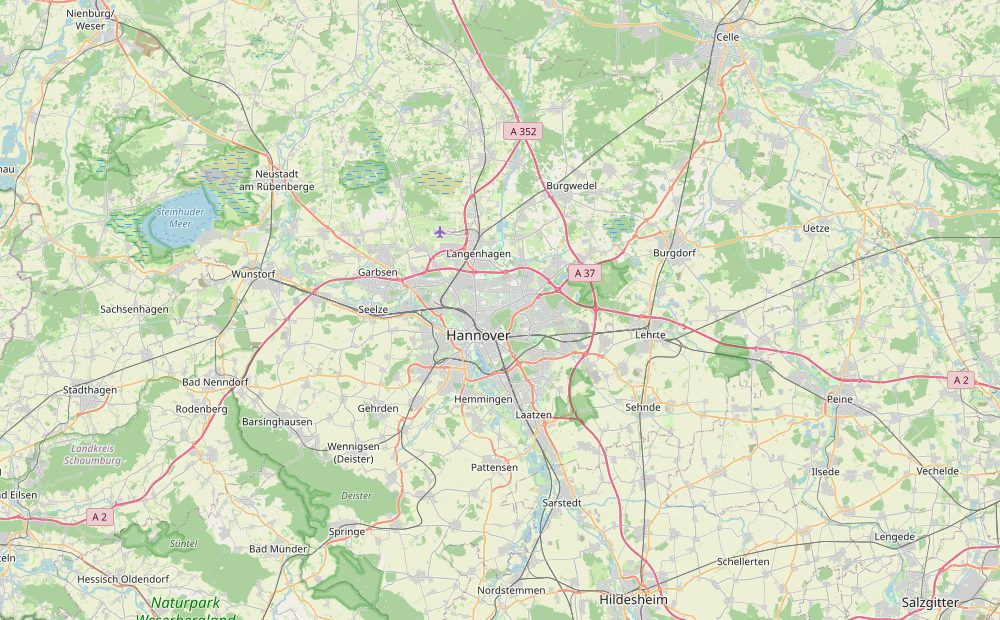
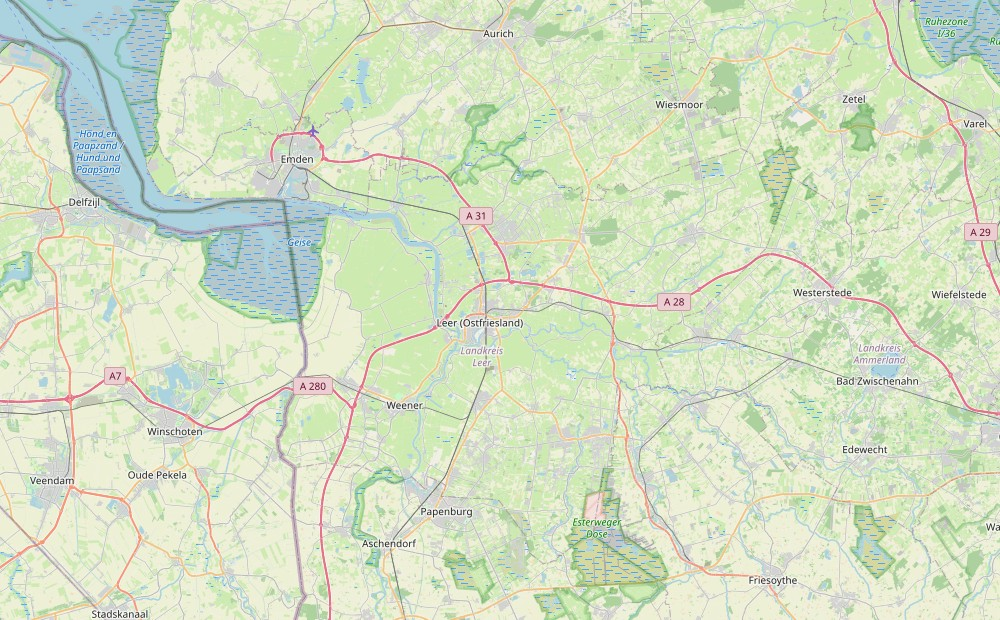
Arbeitsort Leer statt Hannover: Funnel, Karte, Creatives, Copies (#1)
planGIS sucht für den Standort Leer (Friedhofstr. 45a, 26789), nicht für
die Niederlassung Hannover. Badge, Titel, Benefit-Zeile und Karte im Funnel,
die drei Creative-Konfigs, beide Copies und creatives.md auf Leer umgestellt.
Die 4 fertig gerenderten Creatives liegen in creatives/ (gleiche Layouts,
nur Ortsangaben sowie Karte/Ring/Pfeil in Creative 1 neu).

Claude-Session: https://claude.ai/code/session_01V9qSHtwoWZKok4RdhM7UEt

diff --git a/index.html b/index.html
@@ -34,7 +34,7 @@
 <meta name="theme-color" content="#95C11F">
[2 lines of base64/hex data omitted]
-<title>Landschaftsplaner (m/w/d) bei planGIS GmbH in Hannover</title>
+<title>Landschaftsplaner (m/w/d) bei planGIS GmbH in Leer</title>
 <script>!function(f,b,e,v,n,t,s){if(f.fbq)return;n=f.fbq=function(){n.callMethod?n.callMethod.apply(n,arguments):n.queue.push(arguments)};if(!f._fbq)f._fbq=n;n.push=n;n.loaded=!0;n.version='2.0';n.queue=[];t=b.createElement(e);t.async=!0;t.src=v;s=b.getElementsByTagName(e)[0];s.parentNode.insertBefore(t,s)}(window,document,'script','https://connect.facebook.net/en_US/fbevents.js');fbq('init','1986121842345009');fbq('track','PageView');</script><noscript><img height="1" width="1" style="display:none" src="https://www.facebook.com/tr?id=1986121842345009&ev=PageView&noscript=1"/></noscript>
 <link rel="preconnect" href="https://fonts.googleapis.com">
 <link rel="preconnect" href="https://fonts.gstatic.com" crossorigin>
@@ -296,7 +296,7 @@ footer{background:#fff;border-top:1px solid var(--line);padding:30px 16px 34px;t
 
 <section class="hero has-photo" style="--hero-photo:url('img/hero.jpg')">
   <div class="hero-in">
-    <span class="badge" data-animate>📍 Hannover &amp; Umgebung</span>
+    <span class="badge" data-animate>📍 Leer &amp; Umgebung</span>
     <h1 data-animate style="--d:.06s">Landschaftsplaner <span class="mwd">(m/w/d)</span><span class="h1-sub">bei planGIS GmbH</span></h1>
 
     <p class="hero-benefit" data-animate style="--d:.12s">Home-Office möglich</p>
@@ -314,7 +314,7 @@ footer{background:#fff;border-top:1px solid var(--line);padding:30px 16px 34px;t
   <div class="sec-in">
     <h2 data-animate>Das bietet dir planGIS GmbH</h2>
     <ul class="benefit-grid" data-animate style="--d:.08s">
-      <li>Home-Office möglich – feste Bürotage in Hannover sind vorgesehen</li>
+      <li>Home-Office möglich – feste Bürotage in Leer sind vorgesehen</li>
       <li>Flexible Arbeitszeiten</li>
       <li>Unbefristeter Arbeitsvertrag in Vollzeit</li>
       <li>Sinnvolle Arbeit: Du treibst die Energiewende voran</li>
@@ -469,9 +469,9 @@ footer{background:#fff;border-top:1px solid var(--line);padding:30px 16px 34px;t
   <div class="sec-in">
     <h2 data-animate>Hier könnte dein neuer Arbeitsplatz sein</h2>
     <div class="karte-wrap" data-animate style="--d:.08s">
-      <img src="img/karte.jpg" alt="Karte: Hannover und Umgebung" loading="lazy">
+      <img src="img/karte.jpg" alt="Karte: Leer (Ostfriesland) und Umgebung" loading="lazy">
       <div class="karte-pin"><span class="ring"></span></div>
-      <span class="karte-label">📍 Hannover</span>
+      <span class="karte-label">📍 Leer</span>
     </div>
     <p class="karte-credit">Kartendaten © OpenStreetMap-Mitwirkende</p>
   </div>

diff --git a/creatives.md b/creatives.md
@@ -1,27 +1,34 @@
-# planGIS GmbH – Creatives & Copies (24.09.2026, Bau-Automat)
+# planGIS GmbH – Creatives & Copies (Neubau 28.09.2026: Arbeitsort Leer)
 
-Stelle: Landschaftsplaner (m/w/d) · Arbeitsort laut Anzeige: Hannover (Niederlassung Podbielskistr. 70, 30177) · Home-Office möglich
-Tarif: Exzellenz · 60 Tage · Targeting: 30 km um 30177 Hannover
+Stelle: Landschaftsplaner (m/w/d) · Arbeitsort: Leer (Ostfriesland), Büro Friedhofstr. 45a, 26789 Leer · Home-Office möglich
+Tarif: Exzellenz · 60 Tage · Targeting: 30 km um 26789 Leer (Büro, 53.24286 / 7.48427)
 
-## Creatives (alle deterministisch per PIL gesetzt, 0 € API)
-1. creative-1-karten-hook – karten_hook_creative.py (karten-hook-creative.json): Headline LANDSCHAFTS-PLANER (m/w/d), Pille „Ohne Lebenslauf & Anschreiben!", Team-Foto, Karte Hannover
-2. creative-2-collage – collage_creative.py (collage-creative.json): Team / Wind+PV / Landschaft, CTA-Fläche Markengrün
-3. creative-3-wir-suchen – split_creative.py panel top (Anthrazit-Panel): „WIR SUCHEN IN HANNOVER & UMGEBUNG", Subline „Bauleitplanung für Windenergie & Photovoltaik – Home-Office möglich."
-4. creative-4-checkliste – split_creative.py panel bottom (weiß): Home-Office möglich · Flexible Arbeitszeiten · Unbefristet + Deutschlandticket
+## Korrektur 28.09.2026
+planGIS sucht für den Standort Leer, nicht für die Niederlassung Hannover (Vorgabe Freddy). Die Anzeige nennt im Beschreibungstext weiterhin „Arbeitsort: Hannover" – maßgeblich ist die Vorgabe des Kunden, Portal-Adresse ist ohnehin 26789 Leer. Funnel, Karte, alle 4 Creatives und beide Copies auf Leer umgestellt. Die Hannover-Version vom 24.09. steht in der Git-Historie.
+
+## Creatives (fertig gerendert in creatives/, 1024x1280)
+1. creative-1 – Karten-Hook (karten-hook-creative.json): Headline LANDSCHAFTS-PLANER (m/w/d), Pille „Ohne Lebenslauf & Anschreiben!", Team-Foto, Karte Leer (OSM, Zoom 10, Ring um das Büro), Ortszeile „Leer · Emden · Papenburg & Umgebung"
+2. creative-2 – Collage (collage-creative.json): Team / Wind+PV / Landschaft, CTA-Fläche Markengrün, Ortszeile „Leer · Emden · Papenburg"
+3. creative-3 – Wir suchen, Panel oben (split-creative.json, Anthrazit): „WIR SUCHEN IN LEER & UMGEBUNG", Subline „Bauleitplanung für Windenergie & Photovoltaik – Home-Office möglich."
+4. creative-4 – Checkliste, Panel unten (split-creative.json, weiß): „WIR SUCHEN IN LEER & UMGEBUNG", Home-Office möglich · Flexible Arbeitszeiten · Unbefristet + Deutschlandticket
+
+Neubau 28.09.: gleiche Layouts wie am 24.09., ersetzt wurden nur die Ortsangaben sowie Karte, Ring und Pfeil in Creative 1 (Schrift Arial-metrisch, gleiche Größen und Positionen).
 
 ## Belege (Anzeige, API api/slugs/search/vollzeit-landschaftsplaner-unbefristet-in-leer)
-- „Arbeitsort: Hannover, Home-Office möglich (feste Bürotage sind vorgesehen)" – description
+- Portal-Adresse Stelle + Arbeitgeber: Friedhofstr. 45a, 26789 Leer
+- „Arbeitsort: Hannover, Home-Office möglich (feste Bürotage sind vorgesehen)" – description (überholt, siehe Korrektur)
 - Aufgaben: Flächennutzungs-/Bebauungspläne Wind/PV, Texte + Karten (GIS), Abwägung Stellungnahmen, Kommunikation Projektierer/Behörden/Gemeinden/Fachplaner – description + your_tasks
-- Benefits-Tab (gerendert geprüft): Altersvorsorge, Betriebsausflüge, Firmenhandy, Flache Hierarchien, Flexible Arbeitszeiten, Freundliches Arbeitsklima, Jobrad-Leasing, Kita-Zuschuss, Firmenfeiern, Strukturierte Abläufe, Unbefristeter Arbeitsvertrag, Jobticket (Deutschlandticket)
+- Benefits-Tab: Altersvorsorge, Betriebsausflüge, Firmenhandy, Flache Hierarchien, Flexible Arbeitszeiten, Freundliches Arbeitsklima, Jobrad-Leasing, Kita-Zuschuss, Firmenfeiern, Strukturierte Abläufe, Unbefristeter Arbeitsvertrag, Jobticket (Deutschlandticket)
 - 30 Mitarbeiter, gegründet 2000 (strukturierte Felder), Sitz Leer und Hannover (employer.description)
 - Kein Gehalt in der Anzeige („angemessenes Gehalt" ohne Zahl) → nirgends eine Zahl
+- Umkreis-Orte im 30-km-Radius um das Büro (plz_geo): Moormerland ~9 km, Papenburg ~19 km, Emden ~22 km, Aurich ~26 km
 
 ## Copy A
-Landschaftsplaner (m/w/d) in Hannover gesucht – ideal, wenn du in Langenhagen, Garbsen, Hildesheim, Celle oder Umgebung wohnst.
+Landschaftsplaner (m/w/d) in Leer (Ostfriesland) gesucht – ideal, wenn du in Emden, Aurich, Papenburg, Moormerland oder Umgebung wohnst.
 Du willst mit deiner Planung die Energiewende voranbringen? Bei planGIS erarbeitest du Flächennutzungs- und Bebauungspläne für Windenergie und Photovoltaik – mit GIS, im Team und mit Home-Office-Möglichkeit.
 
 Damit sind dir sicher:
-✔ Home-Office möglich (feste Bürotage in Hannover)
+✔ Home-Office möglich (feste Bürotage in Leer)
 ✔ Flexible Arbeitszeiten & unbefristeter Vertrag
 ✔ Deutschlandticket, Jobrad-Leasing & Firmenhandy
 ✔ Betriebliche Altersvorsorge & Kita-Zuschuss
@@ -33,7 +40,7 @@ Beschreibung: In 60 Sek. – ohne Lebenslauf
 
 ## Copy B
 Du hast Landschaftsplanung, Raumplanung, Geographie oder Landschaftsarchitektur studiert – und bringst Erfahrung aus der Planungspraxis mit?
-planGIS sucht in Hannover einen Landschaftsplaner (m/w/d) für die Bauleitplanung im Bereich Erneuerbare Energien: Flächennutzungs- und Bebauungspläne, Karten (GIS), Abstimmung mit Projektierern, Behörden und Gemeinden.
+planGIS sucht in Leer (Ostfriesland) einen Landschaftsplaner (m/w/d) für die Bauleitplanung im Bereich Erneuerbare Energien: Flächennutzungs- und Bebauungspläne, Karten (GIS), Abstimmung mit Projektierern, Behörden und Gemeinden.
 
 Home-Office möglich, flexible Arbeitszeiten und ein unbefristeter Vertrag inklusive.
 
